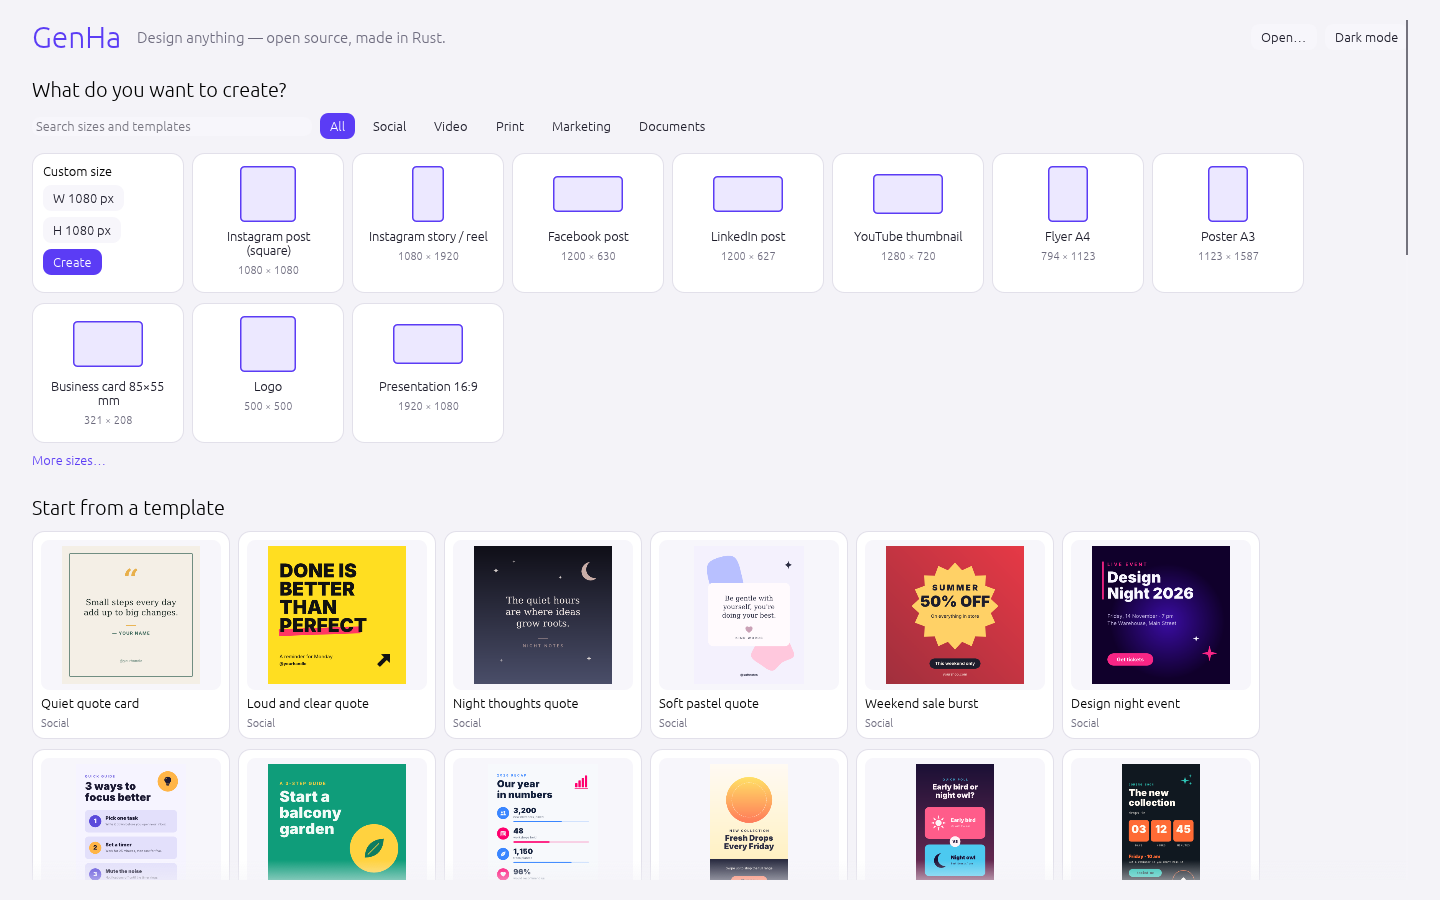
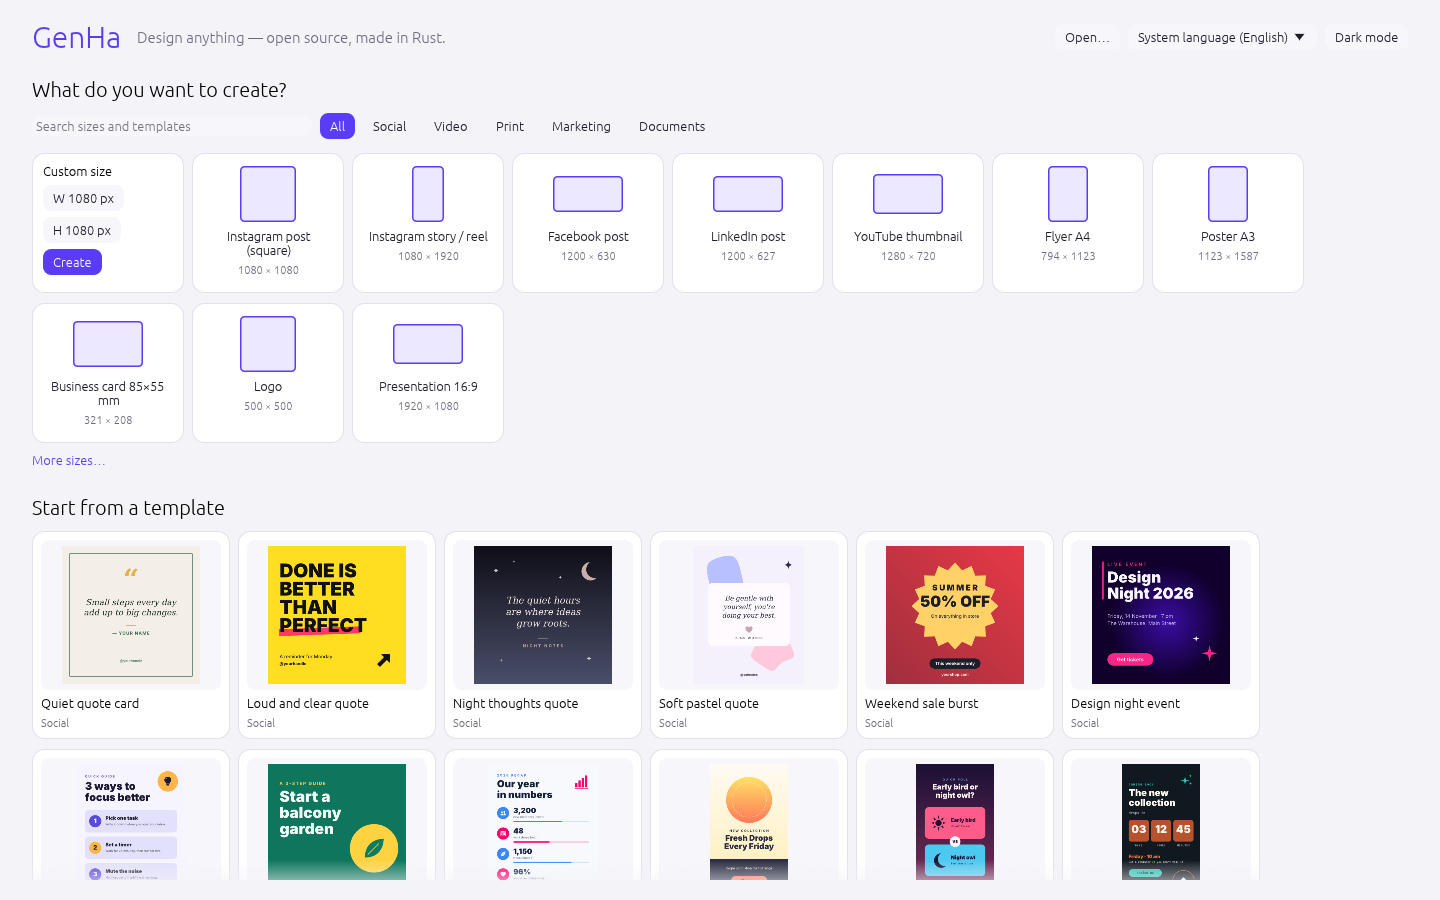
M2.22: new README with GIFs (text editing, smart resize, animation), template gallery and screenshots (English and German); measured numbers
Claude-Session: https://claude.ai/code/session_01L778Xi7jgo85ReTYAQ5rNk

diff --git a/README.md b/README.md
@@ -2,70 +2,114 @@
 
 **Design anything — open source, made in Rust.**
 
-GenHa is a free, open-source design app for quick content: social posts and stories, flyers,
-posters, logos, business cards, presentations, resumes and invitations. It aims at the feature set
-of Adobe Express — and beyond — as an **independent, clean-room project**: its own name, its own UI,
-its own templates and artwork, 100% Rust, MIT OR Apache-2.0, no account, everything runs locally.
+[![ci](https://github.com/DJTobi24/genexpress/actions/workflows/ci.yml/badge.svg)](https://github.com/DJTobi24/genexpress/actions/workflows/ci.yml)
+![licence: MIT OR Apache-2.0](https://img.shields.io/badge/licence-MIT%20OR%20Apache--2.0-blue)
+![100% Rust](https://img.shields.io/badge/made%20in-Rust-orange)
 
-It follows the conventions of the ArtCraft apps (VectorCraft, PhotoCraft, PDFCraft): a layered Cargo
-workspace, "everything is a command", a never-crash policy, and first-class automation for AI agents
-(control channel, CLI and an MCP server).
+GenHa is a free, open-source design app for quick content: social posts and stories, flyers,
+posters, logos, business cards, presentations, resumes, invitations and short animated videos.
+It aims at the feature set of Adobe Express — and beyond — as an **independent, clean-room
+project**: its own name, its own UI, its own templates and artwork, 100% Rust, no account, and
+everything runs on your own computer (desktop on Windows, macOS and Linux, or in the browser).
 
 ![The GenHa editor](docs/images/editor.png)
 
-## Status
+## See it in action
 
-**Stage: pre-alpha (M1 done, M2 in progress).** A working desktop and web editor with templates, smart resize, charts, animation, picture tools
-and exports; ~30–35% of the target feature set by our own (low) estimate — see
-[ROADMAP.md](ROADMAP.md) and [docs/target-app-parity.md](docs/target-app-parity.md).
+| Edit text right on the canvas | Smart resize to any format |
+|---|---|
+| ![Editing a headline on the canvas and colouring one word](docs/images/edit-text.gif) | ![An infographic re-laid out as a story and as a landscape slide](docs/images/smart-resize.gif) |
+| Type into the design, format single words (font, size, bold, colour), undo it all in one step. | One design becomes a story, a banner or a slide: text reflows, rows and grids re-arrange. |
 
-What works today:
+| Animate and present | 121 original templates |
+|---|---|
+| ![An animated sale post playing on the canvas](docs/images/animation.gif) | ![A selection of GenHa's templates](docs/images/templates.jpg) |
+| Entrance, loop and exit animations, played on the canvas, in present mode (F5), or exported as MP4 or GIF. | Posts, stories, flyers, menus, cards, invitations, invoices, resumes, decks, worksheets and logos — every one made for GenHa, in code. |
 
-- **Start**: 35 size presets (social, video, print, marketing, documents) or a custom size; 121 original templates (posts, carousels, animated posts and videos, stories, covers, flyers, posters, menus, cards, invitations, letterheads, invoices, decks with charts, resumes, worksheets, infographics, landing pages, logos, ads); open pictures as a design.
-- **Edit**: multi-page designs (pages of different sizes), select/move/resize/rotate with smart guides (snapping while moving and resizing, equal spacing, distance hints; also several objects at once), groups, layer order, lock/hide, align & distribute, copy/paste (also style), undo/redo, crop page to content, version history, Data Recovery after a crash, recent designs with thumbnails, paste pictures from the clipboard.
-- **Content**: text edited in place on the canvas, with styles (also for single words: font, size, bold, italic, underline, strikethrough, colour), presets and effects (shadow, outline, highlight) and curved text, shaped with kerning and ligatures, right-to-left and complex scripts, and font fallback for mixed scripts; 25 text styles; charts (bar, line, area, pie, donut, progress) with several series, stacking, axis titles and number formats, and tables with merged cells and per-cell styles; shapes and 114 original icons in 11 categories; QR codes; 40 palettes; collages; brand kit (colours, fonts, palettes, colours from a photo).
-- **Pictures**: place (also SVG as editable shapes), crop, fit, crop to shape, corner radius, border, adjustments, 14 filters, remove / blur / change background: an AI model finds the subject on busy photos (U²-Net, Apache-2.0, downloaded once on request, runs locally in pure Rust) or a colour-based method for plain backdrops.
-- **Smart resize**: re-lay out a page for another size (text reflowed, rows and grids re-arranged, tall designs in columns on wide pages), or add a resized copy; or scale it to fit.
-- **Motion**: entrance, loop and exit animations for any object or text, "animate all" with a stagger, playback on the canvas, present mode (F5).
-- **Export**: PNG (also transparent and 2×), JPEG, SVG, multi-page vector PDF (real, searchable text with embedded fonts; pictures at full resolution), print PDF (bleed, crop marks, optional CMYK), MP4 video (H.264, every page for its duration; our own pure-Rust encoder, also in the browser), animated GIF and animated PNG. Native `.genha` files.
-- **Languages**: the whole interface in English or German (follows the system, or picked on the home screen); UI fields show text in any script the computer has fonts for.
-- **Quick actions** (file in, file out): remove / blur / change background, resize, convert PNG/JPEG/WebP, trim, black & white, pixelate.
-- **Automation**: 162 commands reachable from the UI, the CLI, a JSON-lines control channel and MCP.
+## What it can do
+
+- **Start fast:** 35 size presets or a custom size, 121 templates in 6 categories, or open a picture as a design.
+- **Edit:** multi-page designs (pages of any size); move, resize and rotate with smart guides (snapping, equal spacing, distance hints); groups, layers, lock/hide, align & distribute; copy/paste of objects and styles; undo/redo; version history; Data Recovery after a crash; recent designs.
+- **Text:** edited in place on the canvas, with real typography (kerning, ligatures, Arabic, Hebrew, Indic scripts, font fallback for mixed text); format single words; 25 text styles; shadow, outline and highlight effects; curved text.
+- **Content:** charts (bar, line, area, pie, donut, progress — several series, stacked, axis titles), tables with merged and styled cells, shapes and 114 original icons, QR codes, collages, 40 palettes, brand kits.
+- **Pictures:** crop, fit, crop to shape, corners, borders, adjustments, 14 filters; **remove, blur or change the background** — with an AI model that finds the subject on busy photos (U²-Net, Apache-2.0, downloaded once on request, runs locally) or a fast colour-based method.
+- **Smart resize:** re-lay out a design for another format, or add a resized copy.
+- **Motion:** animations for any object or text, "animate all" with a stagger, playback on the canvas, present mode.
+- **Export:** PNG (also transparent, 2×), JPEG, SVG, **vector PDF** with real, searchable text, **print PDF** (300 dpi, bleed, crop marks, optional CMYK), **MP4 video** (our own pure-Rust H.264 encoder), animated GIF and PNG. Native `.genha` files.
+- **Quick actions** (file in, file out): remove / blur / change background, resize, convert, trim, black & white, pixelate.
+- **Languages:** English and German, switched live; text in any script shows correctly.
+- **Automation:** every action is one of 163 commands, reachable from the UI, the command line, a JSON control channel and an **MCP server for AI assistants** — anything a user can do, an agent can do.
+
+| Home screen | Auf Deutsch |
+|---|---|
+| ![The home screen](docs/images/home.png) | ![The home screen in German](docs/images/home-de.png) |
 
 ## Run it
 
+You need a recent stable Rust toolchain ([rustup.rs](https://rustup.rs)).
+
 ```sh
-cargo run --release -p genha                       # the desktop app
-cargo run --release -p genha-cli -- --help         # the command line
-cargo xtask web && python3 -m http.server -d dist/web 8080   # the web app: open http://127.0.0.1:8080
+cargo run --release -p genha                                  # the desktop app
+cargo run --release -p genha-cli -- --help                    # the command line
+cargo xtask web && python3 -m http.server -d dist/web 8080    # the web app, then open http://127.0.0.1:8080
 ```
 
-The web version is the same app compiled to WebAssembly: files are opened through the browser's
-file picker or by dropping them on the page, and Save / Download become browser downloads
-(see [docs/development.md › Web](docs/development.md#web)).
+On Linux the desktop app needs the usual GUI libraries (e.g. `libxkbcommon-dev libgtk-3-dev` on
+Debian/Ubuntu). The web version is the same app compiled to WebAssembly: files open through the
+browser's file picker or by dropping them on the page, and Save / Download become browser
+downloads ([docs/development.md › Web](docs/development.md#web)).
 
-Command-line examples:
+### Command line
 
 ```sh
-genha-cli templates
+genha-cli templates                                           # list templates (also: presets)
 genha-cli new --template event-night -o party.genha
-genha-cli export party.genha -o party.pdf
-genha-cli export party.genha -o party.mp4 --quality high   # every page, each for its duration
-genha-cli model download                           # the background removal model (4.6 MB, once)
-genha-cli quick remove-background photo.jpg -o cutout.png   # AI model when downloaded, else colour-based
-genha-cli run script.json --export out.png         # script: [{"command": "...", "params": {...}}]
-genha-cli mcp                                      # MCP server for AI assistants
+genha-cli export party.genha -o party.pdf                     # png, jpg, svg, pdf, gif, mp4
+genha-cli export party.genha -o party.mp4 --quality high      # every page, each for its duration
+genha-cli model download                                      # the background removal model (4.6 MB, once)
+genha-cli quick remove-background photo.jpg -o cutout.png     # AI model when downloaded, else colour-based
+genha-cli run script.json --export out.png                    # script: [{"command": "...", "params": {...}}]
 ```
 
-## For contributors and agents
+### For AI agents
 
-- [AGENTS.md](AGENTS.md) — the rules (clean-room, never crash, everything is a command, quality gates).
-- [docs/architecture.md](docs/architecture.md) — crates and layers.
-- [docs/gaps.md](docs/gaps.md) — the ranked work list.
-- `cargo xtask ci` must pass before every commit.
+- `genha-cli mcp` starts an MCP server (headless), `genha-cli mcp --attach 127.0.0.1:7979` drives a
+  running app — see [docs/mcp.md](docs/mcp.md).
+- `genha --control 7979` opens a JSON-lines control channel on localhost — see
+  [docs/control-protocol.md](docs/control-protocol.md).
+- `genha-cli commands` lists every command with its parameters.
+
+## Status
+
+**Pre-alpha.** It is usable for real designs, but file formats and commands may still change.
+By our own (deliberately low) estimate GenHa covers about 30–35% of the target feature set; the
+biggest gaps are collaboration and sharing, a stock content library, generative AI features, a
+video timeline with audio, and more UI languages.
+
+| | |
+|---|---|
+| Templates / size presets / icons / palettes | 121 / 35 / 114 / 40 |
+| Commands (UI = CLI = MCP) | 163 |
+| Tests | 353 |
+| Code | ~52k lines of Rust |
+
+- [ROADMAP.md](ROADMAP.md) — stage, numbers, what's next and the progress log.
+- [docs/target-app-parity.md](docs/target-app-parity.md) — feature-by-feature comparison with the target app.
+- [docs/gaps.md](docs/gaps.md) — every known shortfall, ranked.
+
+## Contributing
+
+- [AGENTS.md](AGENTS.md) — the rules: clean-room, never crash, everything is a command, quality gates.
+- [docs/architecture.md](docs/architecture.md) — crates and layers; [docs/development.md](docs/development.md) — building, testing, translating.
+- `cargo xtask ci` (format, clippy, tests, layers, assets, clean-room and WebAssembly checks) must pass before every commit.
+
+GenHa follows the conventions of the ArtCraft apps (VectorCraft, PhotoCraft, PDFCraft): a layered
+Cargo workspace, "everything is a command", a never-crash policy and first-class automation.
 
 ## Licence
 
 Code and original assets: MIT OR Apache-2.0 (see `LICENSE-MIT`, `LICENSE-APACHE`, `NOTICE`).
+The optional background-removal models are downloaded on request and are Apache-2.0
+([ASSETS.md](ASSETS.md)). H.264 is covered by patents in some countries; see `NOTICE`.
 GenHa is not affiliated with Adobe Inc.; "Adobe Express" is their trademark, named only to
 describe the feature set this project covers.

diff --git a/ASSETS.md b/ASSETS.md
@@ -28,3 +28,8 @@ them in the user's data folder (`models/`). See docs/architecture.md › Backgro
 | docs/images/editor.png | GenHa contributors | screenshot of GenHa | MIT OR Apache-2.0 | the app showing an original template; rendered with system fonts (Inter, OFL) |
 | docs/images/home.png | GenHa contributors | screenshot of GenHa | MIT OR Apache-2.0 | home screen |
 | docs/images/web.png | GenHa contributors | screenshot of GenHa in Chromium (web build) | MIT OR Apache-2.0 | the web app showing an original template; text in the built-in fallback face Ubuntu Light (Ubuntu Font Licence 1.0, from the `epaint_default_fonts` crate) |
+| docs/images/home-de.png | GenHa contributors | screenshot of GenHa | MIT OR Apache-2.0 | home screen with the German UI |
+| docs/images/edit-text.gif | GenHa contributors | screen recording of GenHa (Xvfb, ffmpeg) | MIT OR Apache-2.0 | editing an original template's headline on the canvas |
+| docs/images/smart-resize.gif | GenHa contributors | screen recording of GenHa (Xvfb, ffmpeg) | MIT OR Apache-2.0 | smart resize of an original template to a story and a landscape page |
+| docs/images/animation.gif | GenHa contributors | screen recording of GenHa (Xvfb, ffmpeg) | MIT OR Apache-2.0 | an original animated template playing on the canvas |
+| docs/images/templates.jpg | GenHa contributors | rendered by `genha-cli` | MIT OR Apache-2.0 | 18 of GenHa's original templates; text in system fonts (Inter and others, OFL) |

diff --git a/ROADMAP.md b/ROADMAP.md
@@ -11,8 +11,8 @@
 | Feature parity with the target (all areas) | ~20–25% | estimated, see [target-app-parity.md](docs/target-app-parity.md) |
 | Commands (UI = CLI = MCP) | 163 | measured (`genha-cli exec engine.commands`) |
 | Templates / size presets / icons / text styles / palettes / filters | 121 / 35 / 114 (+10 basic shapes) / 25 / 40 / 14 | measured (counted from `genha_templates`) |
-| Tests | TESTS | measured (`cargo test --workspace`) |
-| Rust lines | ~45k | measured (all `.rs` files, tests included) |
+| Tests | 353 | measured (`cargo test --workspace`) |
+| Rust lines | ~52k | measured (all `.rs` files, tests included) |
 | Platforms | Linux, macOS, Windows (desktop); web (WASM, `cargo xtask web`) | Linux and Chromium measured; others by CI target |
 | UI languages | English, German (793 strings) | measured (`crates/i18n/po/de.po`) |
 
